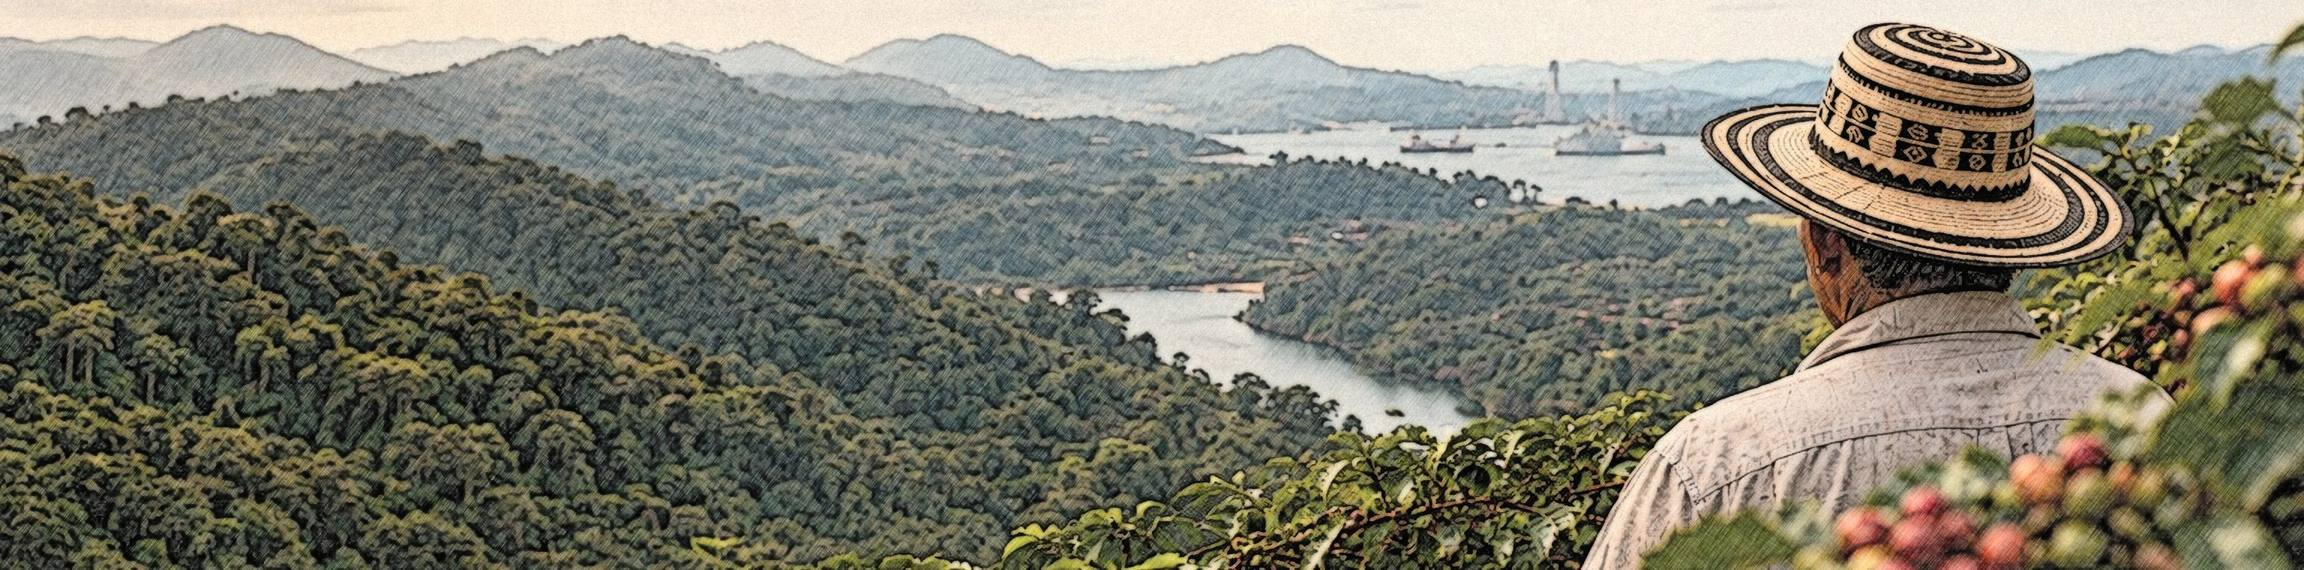
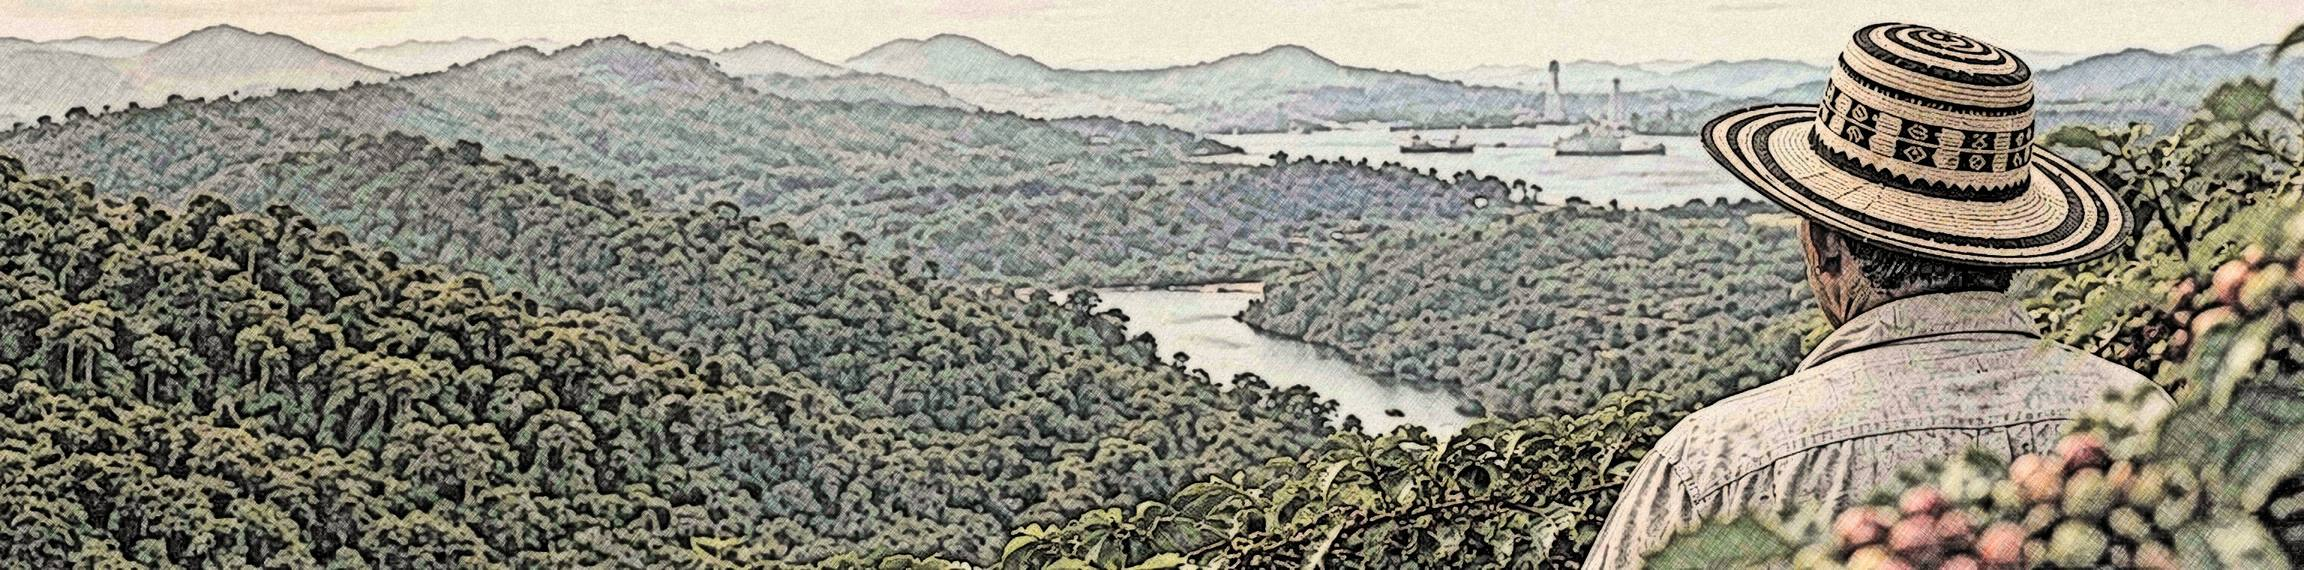
Fotos a lápiz: más dibujo, menos foto
Contornos más marcados, color plano aplicado en trazos con más papel visible
y sombreado rayado más fuerte.

Claude-Session: https://claude.ai/code/session_017GV4r1LnM76EeMhZ1kb6Pe

diff --git a/tools/lapiz.py b/tools/lapiz.py
@@ -1,7 +1,7 @@
 # Convert a photo into a colored-pencil drawing on paper: graphite contours (color dodge),
 # colored pencil laid down in directional strokes, graphite shading in the darks, paper grain.
 import sys, numpy as np
-from PIL import Image, ImageFilter
+from PIL import Image, ImageFilter, ImageOps
 src, dst = sys.argv[1], sys.argv[2]
 im = Image.open(src).convert('RGB')
 im = im.resize((im.width*2, im.height*2), Image.LANCZOS)
@@ -26,20 +26,22 @@ def strokes(angle, length, seed):
 paper = np.array([.975,.95,.9], np.float32)
 g = lum(rgb)
 # graphite contours
-inv = blur(1-g, 4)
-sk = np.clip(g/np.maximum(1-inv, 1e-3), 0, 1)**3
-sk = 1-(1-sk)*.9
+inv = blur(1-g, 3)
+sk = np.clip(g/np.maximum(1-inv, 1e-3), 0, 1)**4
+inv2 = blur(1-blur(g, 1.5), 9)
+sk2 = np.clip(blur(g, 1.5)/np.maximum(1-inv2, 1e-3), 0, 1)**3
+sk = sk*(1-(1-sk2)*.6)
 # colored pencil: flattened color, laid down unevenly along strokes
-flat = blur(rgb, 2.2)
+flat = np.asarray(ImageOps.posterize(to_img(blur(rgb, 4)), 3).filter(ImageFilter.GaussianBlur(2)), np.float32)/255
 fg = lum(flat)[..., None]
-flat = fg+(flat-fg)*1.15
+flat = fg+(flat-fg)*1.7
 s1 = strokes(52, 22, 1)
-cover = np.clip(.42+.75*s1, 0, 1)[..., None]*np.clip(1.15-blur(g,3)[...,None]*.55, 0, 1)
+cover = np.clip(.05+.95*s1, 0, 1)[..., None]*np.clip(1.05-blur(g,3)[...,None]*.6, 0, 1)*.95
 col = paper+(flat-paper)*cover
 # graphite shading in the darks, cross direction
-tone = np.clip((1-blur(g, 2.5))-.35, 0, 1)/.65
+tone = np.clip((1-blur(g, 2.5))-.25, 0, 1)/.75
 s2 = strokes(-38, 16, 2)
-shade = 1-.55*tone*np.clip(s2*1.4-.2, 0, 1)
+shade = 1-.7*tone*np.clip(s2*1.4-.2, 0, 1)
 grain = 1-(blur(rng.random((H,W),np.float32), .6)-.5)*.14
 out = col*(sk*shade*grain)[..., None]
 to_img(out).save(dst, quality=84, optimize=True, progressive=True)
